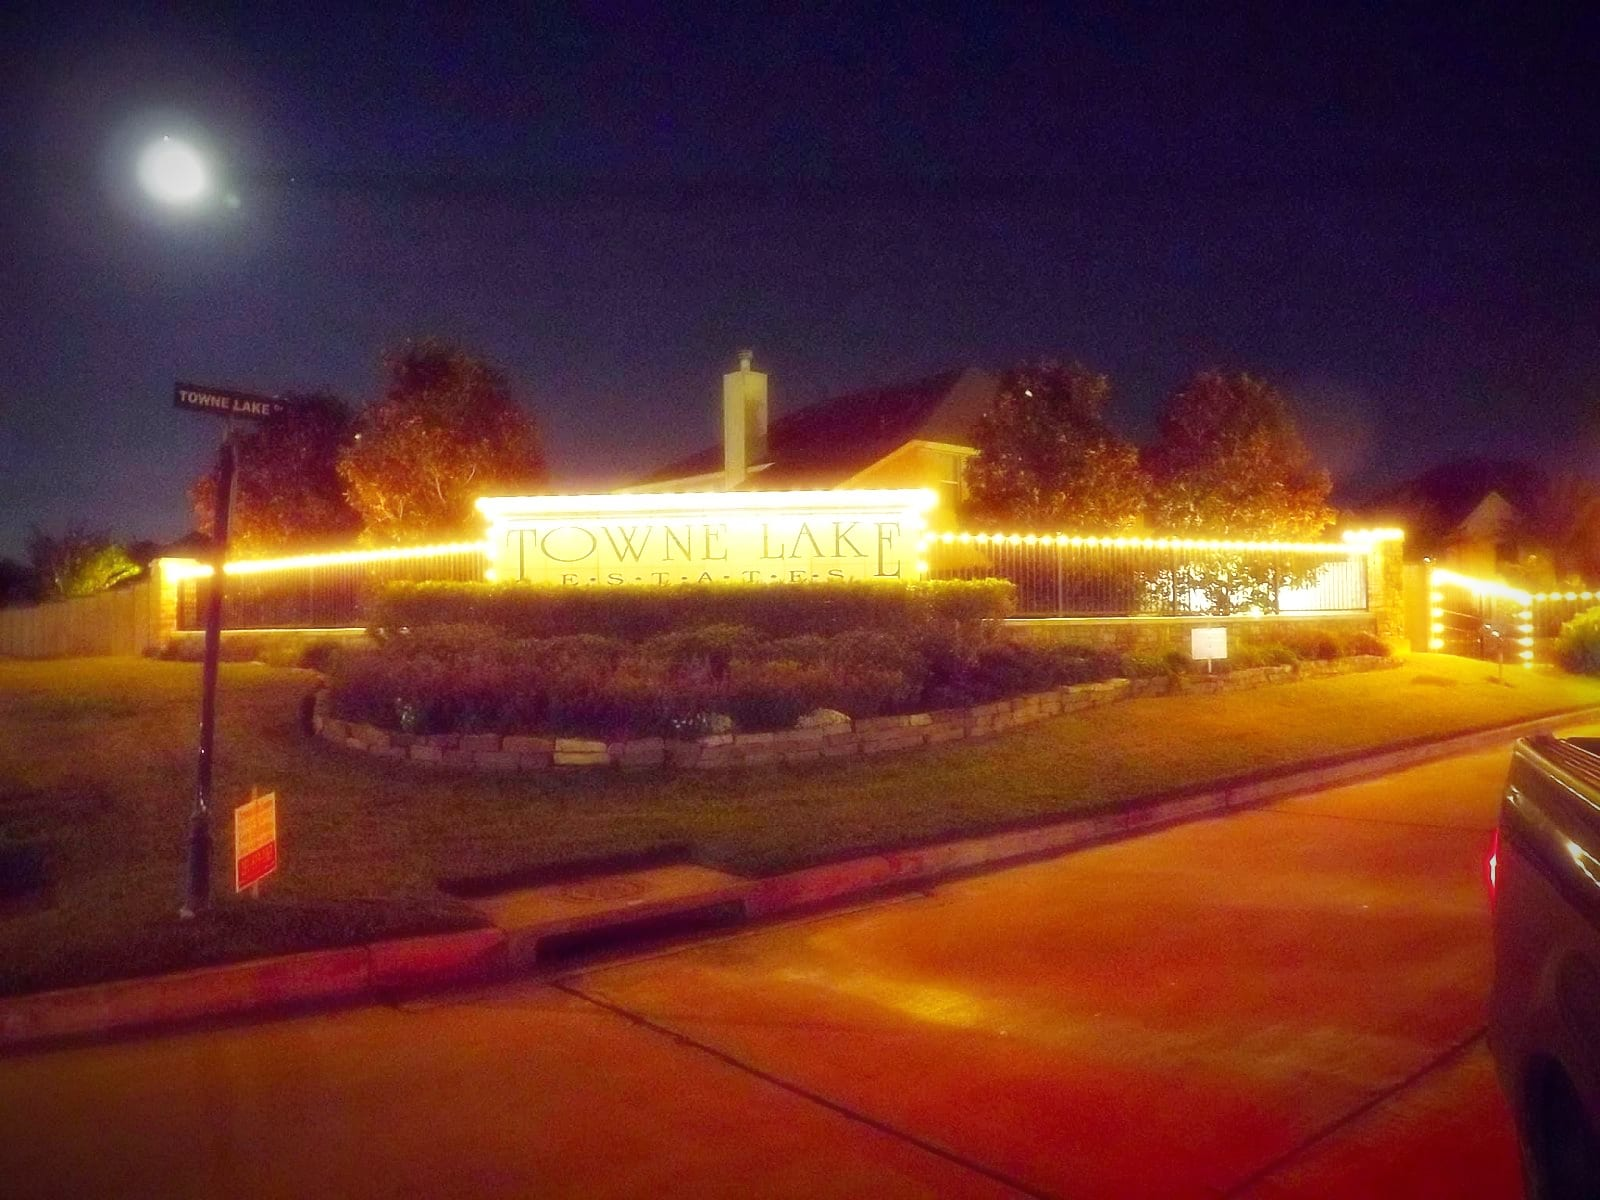
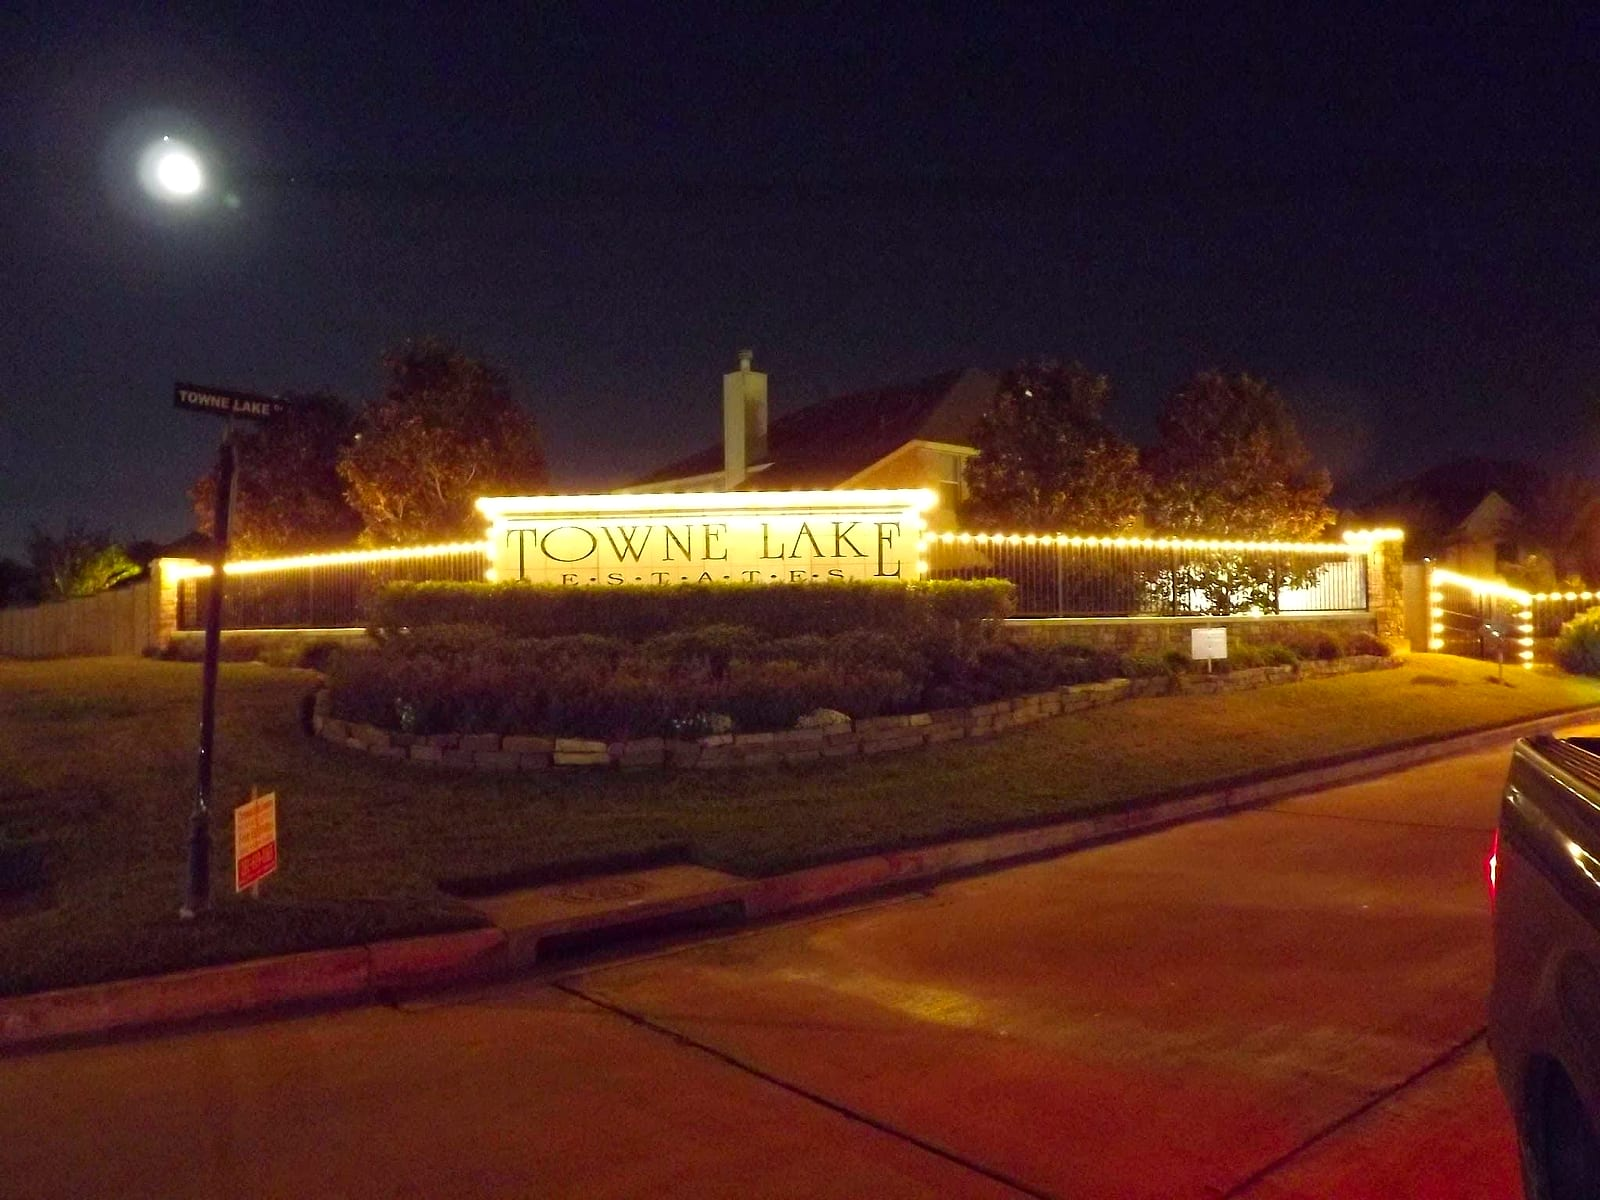
Gallery: 12 more owner photos (privacy blurs), natural look instead of glam

diff --git a/src/data/content.js b/src/data/content.js
@@ -114,6 +114,10 @@ export const testimonials = [
 const photo = (file) => `${base}images/gallery/${file}`
 export const gallery = [
   { src: photo('warm-white-two-story-stone-home.jpg'), alt: 'Warm white lights tracing every gable, window and the garage of a two-story stone home' },
+  { src: photo('estate-wrapped-oaks-gazebo.jpg'), alt: 'Wrapped oak trees, a lit gazebo and pathway lights at an estate entrance' },
+  { src: photo('pink-and-white-roofline.jpg'), alt: 'Pink and white lights outlining the roofline, arches and garage of a brick home' },
+  { src: photo('multicolor-windows-and-roofline-dusk.jpg'), alt: 'Multicolor lights framing every window and roofline of a two-story home at dusk' },
+  { src: photo('blue-wrapped-trees-nativity.jpg'), alt: 'Blue and multicolor wrapped trees with a lit nativity and roofline' },
   { src: photo('iowa-colony-clear-led-gables.jpg'), alt: 'Clear LED lights outlining three gables on a brick home in Iowa Colony' },
   { src: photo('green-led-two-story-home.jpg'), alt: 'Green LED lights outlining the gables, windows and garage of a two-story home' },
   { src: photo('friendswood-warm-white-ivy-home.jpg'), alt: 'Warm white roofline and garden lights on an ivy-covered home in Friendswood' },
@@ -134,6 +138,14 @@ export const gallery = [
   { src: photo('community-entrance-sign.jpg'), alt: 'Holiday lighting on a neighborhood entrance sign' },
   { src: photo('commercial-building-red-lights.jpg'), alt: 'Red holiday lights along the roofline of a commercial building' },
   { src: photo('pearland-highland-glen-walkway.jpg'), alt: 'Roofline, wreath and walkway lights in Lakes of Highland Glen, Pearland' },
+  { src: photo('two-story-wrapped-trees-arched-door.jpg'), alt: 'Two-story home with wrapped trees and a lit arched front door' },
+  { src: photo('blue-wrapped-oaks-estate.jpg'), alt: 'Live oaks wrapped in blue lights along an estate drive' },
+  { src: photo('nativity-trees-roofline.jpg'), alt: 'Roofline, lit shrubs and a nativity scene on a brick home' },
+  { src: photo('white-stone-two-story-warm-white.jpg'), alt: 'Warm white lights on a two-story stone and brick home' },
+  { src: photo('lit-driveway-and-roofline.jpg'), alt: 'Roofline and lit driveway edges on a single-story home' },
+  { src: photo('twin-gables-under-full-moon.jpg'), alt: 'Twin gables outlined in warm white lights under a full moon' },
+  { src: photo('gated-estate-gazebo-lights.jpg'), alt: 'Gated estate entry with a lit gazebo, walls and pathway' },
+  { src: photo('wrapped-trees-arched-entry.jpg'), alt: 'Wrapped tree trunks, arched entry and walkway lights at dusk' },
 ]
 
 export const faq = [

diff --git a/docs/decisions.md b/docs/decisions.md
@@ -29,3 +29,4 @@
 | 2026-10-08 | Business Voice account is a staff-only setting (`settings/app.voiceAccount`), not in code; each device can switch Text to "my own Google Voice" (Katie has her own number) | The staff page code is public; per-person numbers |
 | 2026-10-08 | 6 area pages (Pearland, League City, Manvel, Friendswood, Clear Lake & Bay Area, Alvin/Santa Fe/Galveston County) instead of 20 town pages; real customer counts, area photos, local notes; static HTML built after Vite (`scripts/build-areas.mjs`) + sitemap.xml | Near-identical town pages are doorway pages to Google; static HTML is fully crawlable |
 | 2026-10-08 | Owner photos: 21 of 26 used (5 too dark/blurry), processed by `scripts/process-photos.mjs` from gitignored `photos-incoming/`: resized to ≤1600px, EXIF/GPS stripped, "glam" pass (color, contrast, bulb glow, vignette; nothing added or removed); descriptive names + captions; Classic-Wally (owner favorite) is the hero | Better photos; no customer location leaks; edits stay honest to the real install |
+| 2026-10-08 | Photo look: natural touch-up only (owner rejected the "glam" glow/vignette pass). 33 photos; license plates, house numbers and mailboxes blurred via `blur` regions in `scripts/process-photos.mjs`; a Pinterest-named image left out (likely not the owner's) | Honest, believable photos; customer privacy; copyright |

diff --git a/docs/verified.md b/docs/verified.md
@@ -4,6 +4,7 @@ What was actually checked working, and how. Newest first.
 
 | Date | What | How |
 |---|---|---|
+| 2026-10-08 | Gallery 33 photos, all 200 on the page, none with metadata; plate/house number/mailbox blurs checked in crops; natural look confirmed side by side | sharp + browser pane |
 | 2026-10-08 | New gallery: 21 photos, none with EXIF/GPS; no readable plates in vehicle crops; before/after sheets reviewed (natural pass, then glam pass); all images return 200 on the home page; hero shows the owner's favorite, readable at 375px and 1440px | sharp metadata + browser pane |
 | 2026-10-08 | Area pages (built site, 375px): title/H1/canonical right, site styles apply, all photos on all 6 pages return 200, cross-links work, no sideways scroll; sitemap has 7 URLs; robots lists the sitemap and still blocks /leads/; homepage links to all 6 | `vite preview` + browser pane |
 | 2026-10-08 | Settings (⚙): saving a Voice account makes Text open voice.google.com/u/<account>/…; "My own Google Voice" on this device makes it open /u/0/…; choice stored per device | Browser pane (demo, fake account) |
